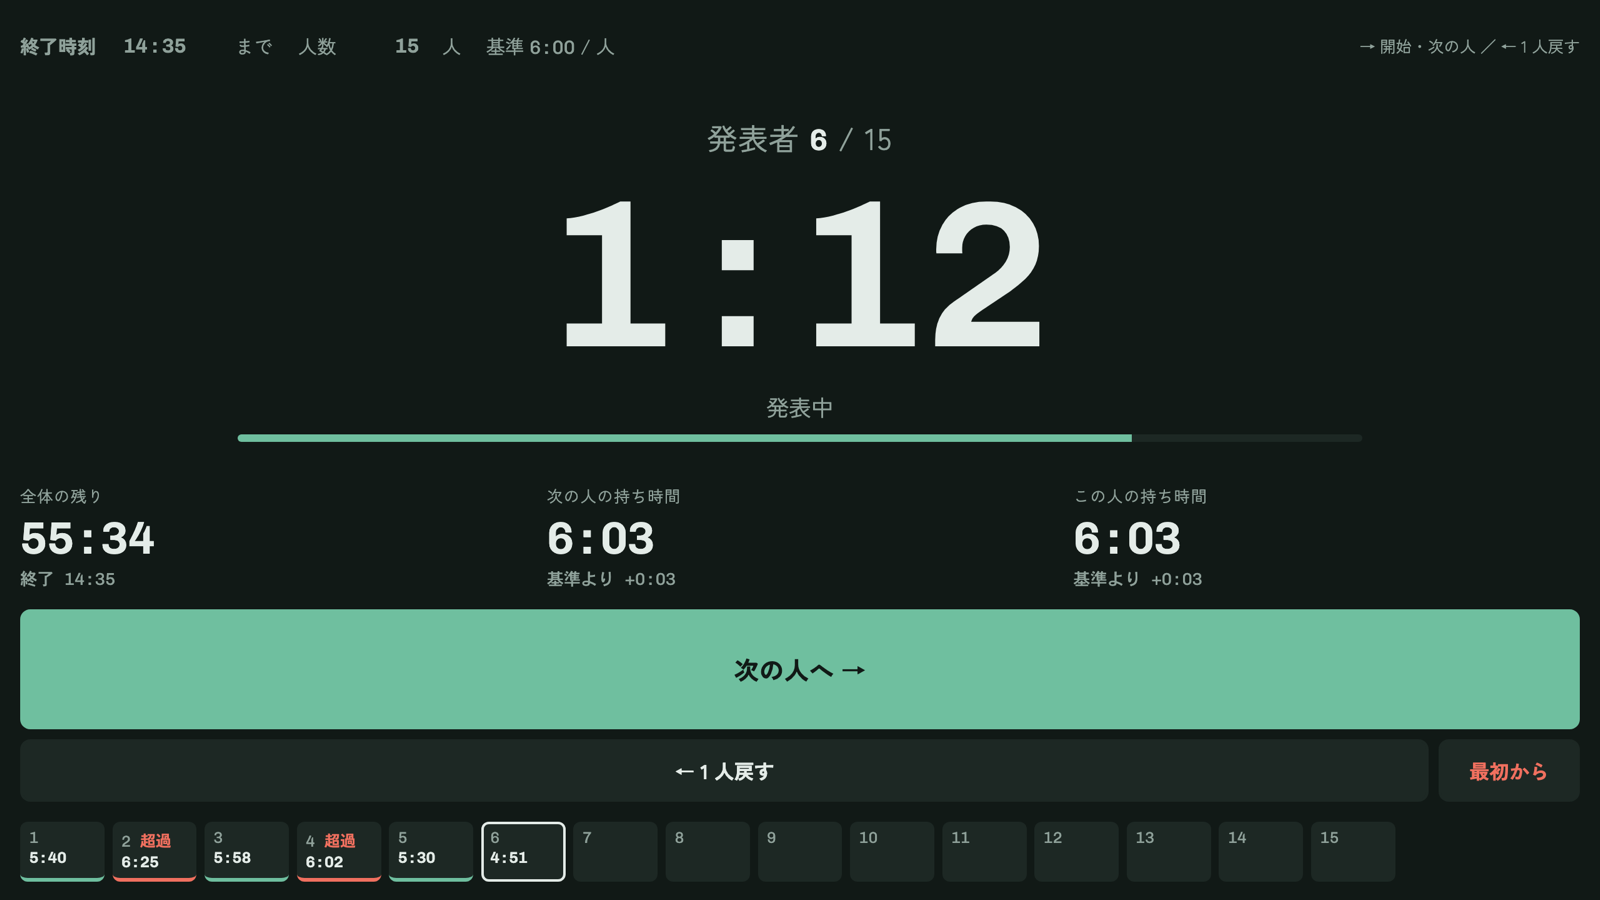
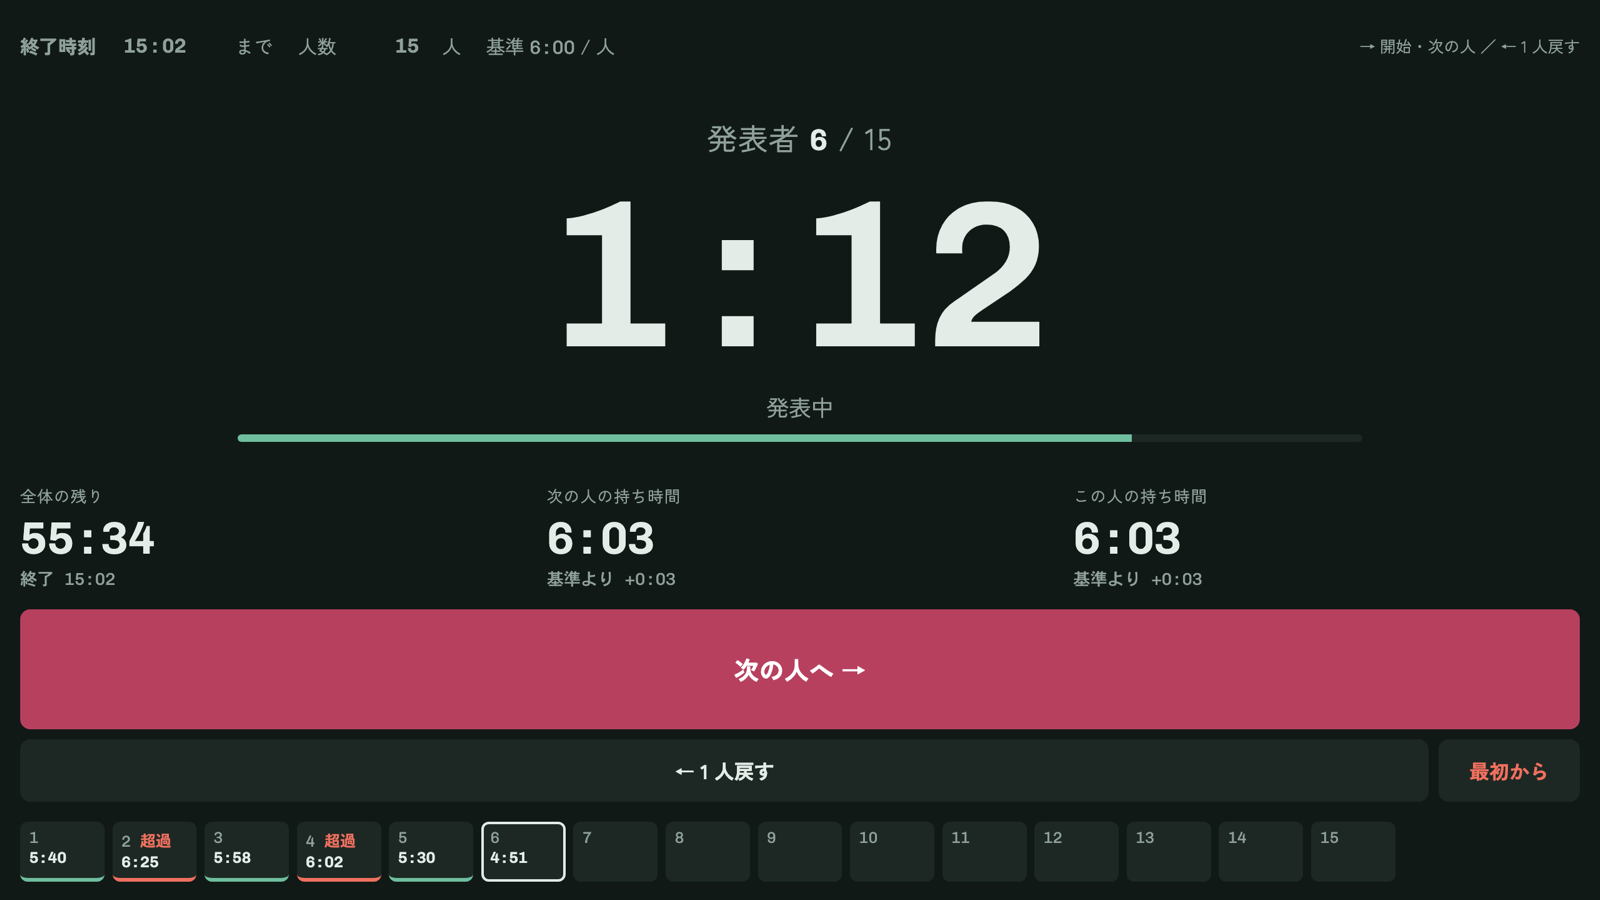
Switch the accent to DIC 273, keep green for on time; privacy policy covers Firebase in the app

Changed region(s): [[0.0, 0.6533, 1.0, 0.8089], [0.0938, 0.0311, 0.125, 0.0622]]

diff --git a/docs/index.html b/docs/index.html
@@ -15,7 +15,8 @@ body { margin: 0; }
   --surface: #E4E9E5;
   --ink: #18221E;
   --muted: #5C6B65;
-  --accent: #2F6B57;
+  --accent: #962649; /* DIC 273 */
+  --ontime: #3FA37E;
   --warn: #8C5A00;
   --over: #C0392B;
   --font-text: "Zen Kaku Gothic New", "Hiragino Sans", system-ui, sans-serif;
@@ -25,13 +26,13 @@ body { margin: 0; }
   :root:not([data-theme="light"]) {
     color-scheme: dark;
     --bg: #111916; --surface: #1D2824; --ink: #E4ECE8; --muted: #8FA19A;
-    --accent: #6FBF9F; --warn: #E2A93B; --over: #F0705F;
+    --accent: #B8405F; --ontime: #6FBF9F; --warn: #E2A93B; --over: #F0705F;
   }
 }
 :root[data-theme="dark"] {
   color-scheme: dark;
   --bg: #111916; --surface: #1D2824; --ink: #E4ECE8; --muted: #8FA19A;
-  --accent: #6FBF9F; --warn: #E2A93B; --over: #F0705F;
+  --accent: #B8405F; --ontime: #6FBF9F; --warn: #E2A93B; --over: #F0705F;
 }
 html, body { height: 100%; }
 body {
@@ -79,7 +80,7 @@ body {
 }
 .state { font-size: clamp(.85rem, min(3cqw, 6cqh), 1.8rem); min-height: 1.4em; color: var(--muted); text-align: center; }
 .bar { width: min(100%, 900px); height: clamp(4px, 2cqh, 12px); background: var(--surface); border-radius: 5px; overflow: hidden; }
-.bar i { display: block; height: 100%; width: 0; background: var(--accent); transition: width .3s linear, background .3s; }
+.bar i { display: block; height: 100%; width: 0; background: var(--ontime); transition: width .3s linear, background .3s; }
 .warn .clock, .warn .state { color: var(--warn); }
 .warn .bar i { background: var(--warn); }
 .over .clock, .over .state { color: var(--over); }
@@ -112,7 +113,7 @@ button {
 }
 button:hover:not(:disabled) { border-color: var(--accent); }
 /* The main action is two rows tall: the height of the row below, twice, plus the gap. */
-button.primary { background: var(--accent); border-color: var(--accent); color: var(--bg); flex: 1; min-height: calc(88px + .5rem); font-size: 1.25rem; }
+button.primary { background: var(--accent); border-color: var(--accent); color: #fff; flex: 1; min-height: calc(88px + .5rem); font-size: 1.25rem; }
 button.primary:hover:not(:disabled) { border-color: var(--ink); }
 button:focus-visible { outline: 3px solid var(--ink); outline-offset: 2px; }
 /* Disabled: no fill, dashed outline, faded text — reads as "not available" next to the filled buttons. */
@@ -123,7 +124,7 @@ button:disabled, button.primary:disabled {
 .strip { display: grid; grid-template-columns: repeat(auto-fill, minmax(4.2rem, 1fr)); gap: .4rem; }
 .chip { background: var(--surface); border-radius: 6px; padding: .35rem .45rem; font: .78rem var(--font-num); display: flex; flex-direction: column; gap: .1rem; border-bottom: 3px solid transparent; }
 .chip .n { color: var(--muted); }
-.chip.done { border-bottom-color: var(--accent); }
+.chip.done { border-bottom-color: var(--ontime); }
 .chip.done.late { border-bottom-color: var(--over); }
 .chip.now { outline: 2px solid var(--ink); outline-offset: -2px; }
 .chip .t { font-weight: 600; }

diff --git a/docs/privacy.html b/docs/privacy.html
@@ -19,9 +19,10 @@
 <body>
 <h1>TaktTime プライバシーポリシー</h1>
 <p class="date">2026 年 11 月 21 日</p>
-<p>TaktTime（iPhone・iPad アプリと Web 版）は、個人情報を含むいかなるデータも収集・送信しません。</p>
+<p>TaktTime（iPhone・iPad アプリと Web 版）は、アカウント・広告を使用しません。氏名・メールアドレスなどの個人情報も収集しません。</p>
 <ul>
-  <li>アカウント・広告・解析ツールは使用していません。</li>
+  <li>iPhone・iPad アプリは、利用状況の把握のために Google Analytics for Firebase を使用します。収集する情報は、アプリの操作、おおよその地域（国・地域の単位）、端末の識別子（広告 ID ではなく Firebase のインスタンス ID）です。この情報は個人の特定、広告、トラッキングには使用しません。Google の取り扱いには <a href="https://policies.google.com/privacy">Google のプライバシーポリシー</a>が適用されます。</li>
+  <li>Web 版は解析ツールを使用していません。</li>
   <li>設定と発表の記録は、端末の中だけに保存します（アプリは UserDefaults、Web 版はブラウザの localStorage）。</li>
   <li>アプリを削除するか、ブラウザのサイトデータを消去すると、保存したデータも消えます。</li>
   <li>Web 版は表示用の書体を Google Fonts から読み込みます。この通信には <a href="https://policies.google.com/privacy">Google のプライバシーポリシー</a>が適用されます。</li>
@@ -30,9 +31,10 @@
 
 <h2 lang="en">Privacy Policy (English)</h2>
 <div lang="en">
-<p>TaktTime (the iPhone and iPad app and the web version) does not collect or send any data, personal or otherwise.</p>
+<p>TaktTime (the iPhone and iPad app and the web version) uses no accounts or ads, and collects no personal information such as names or email addresses.</p>
 <ul>
-  <li>It uses no accounts, ads or analytics.</li>
+  <li>The iPhone and iPad app uses Google Analytics for Firebase to understand how it is used. It collects app interactions, the approximate location (country or region) and a device identifier (the Firebase instance ID, not the advertising identifier). This is not used to identify you, for ads or for tracking. Google handles it under <a href="https://policies.google.com/privacy">Google's Privacy Policy</a>.</li>
+  <li>The web version uses no analytics.</li>
   <li>Settings and the session are stored only on your device (UserDefaults in the app, localStorage in the browser).</li>
   <li>Deleting the app or clearing the site's data in your browser removes them.</li>
   <li>The web version loads its typefaces from Google Fonts, under <a href="https://policies.google.com/privacy">Google's Privacy Policy</a>.</li>
